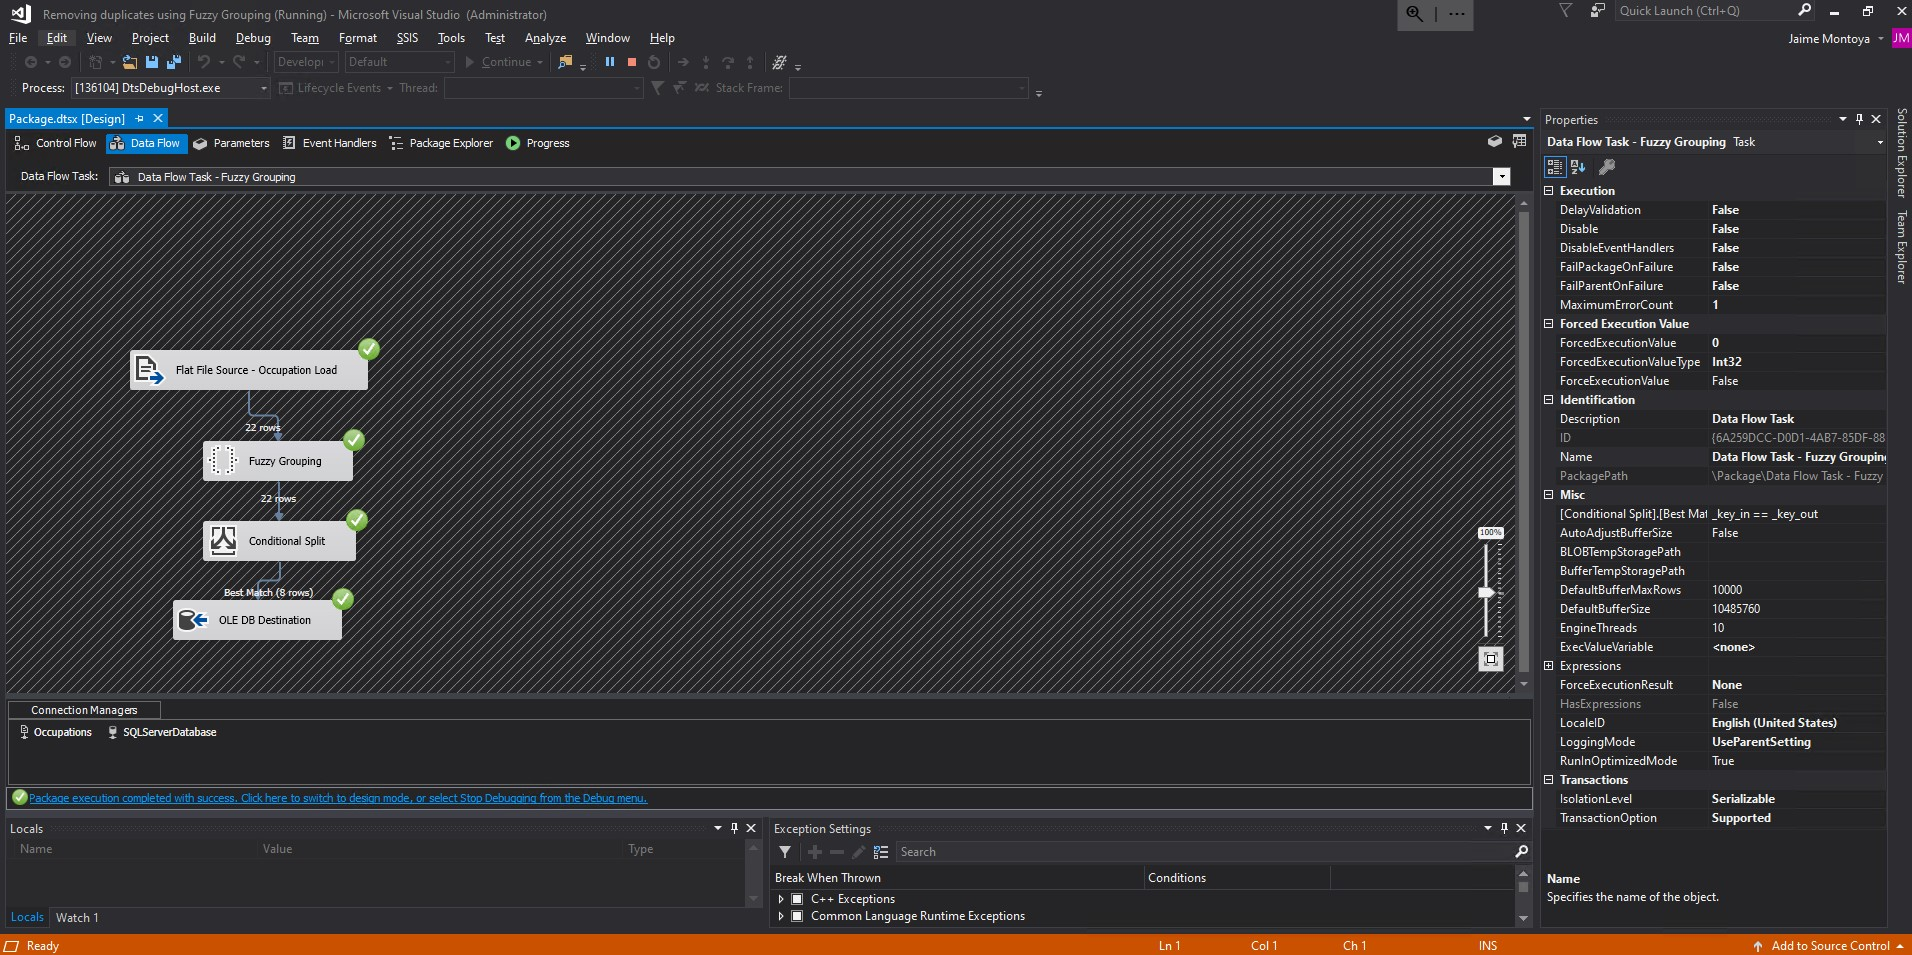
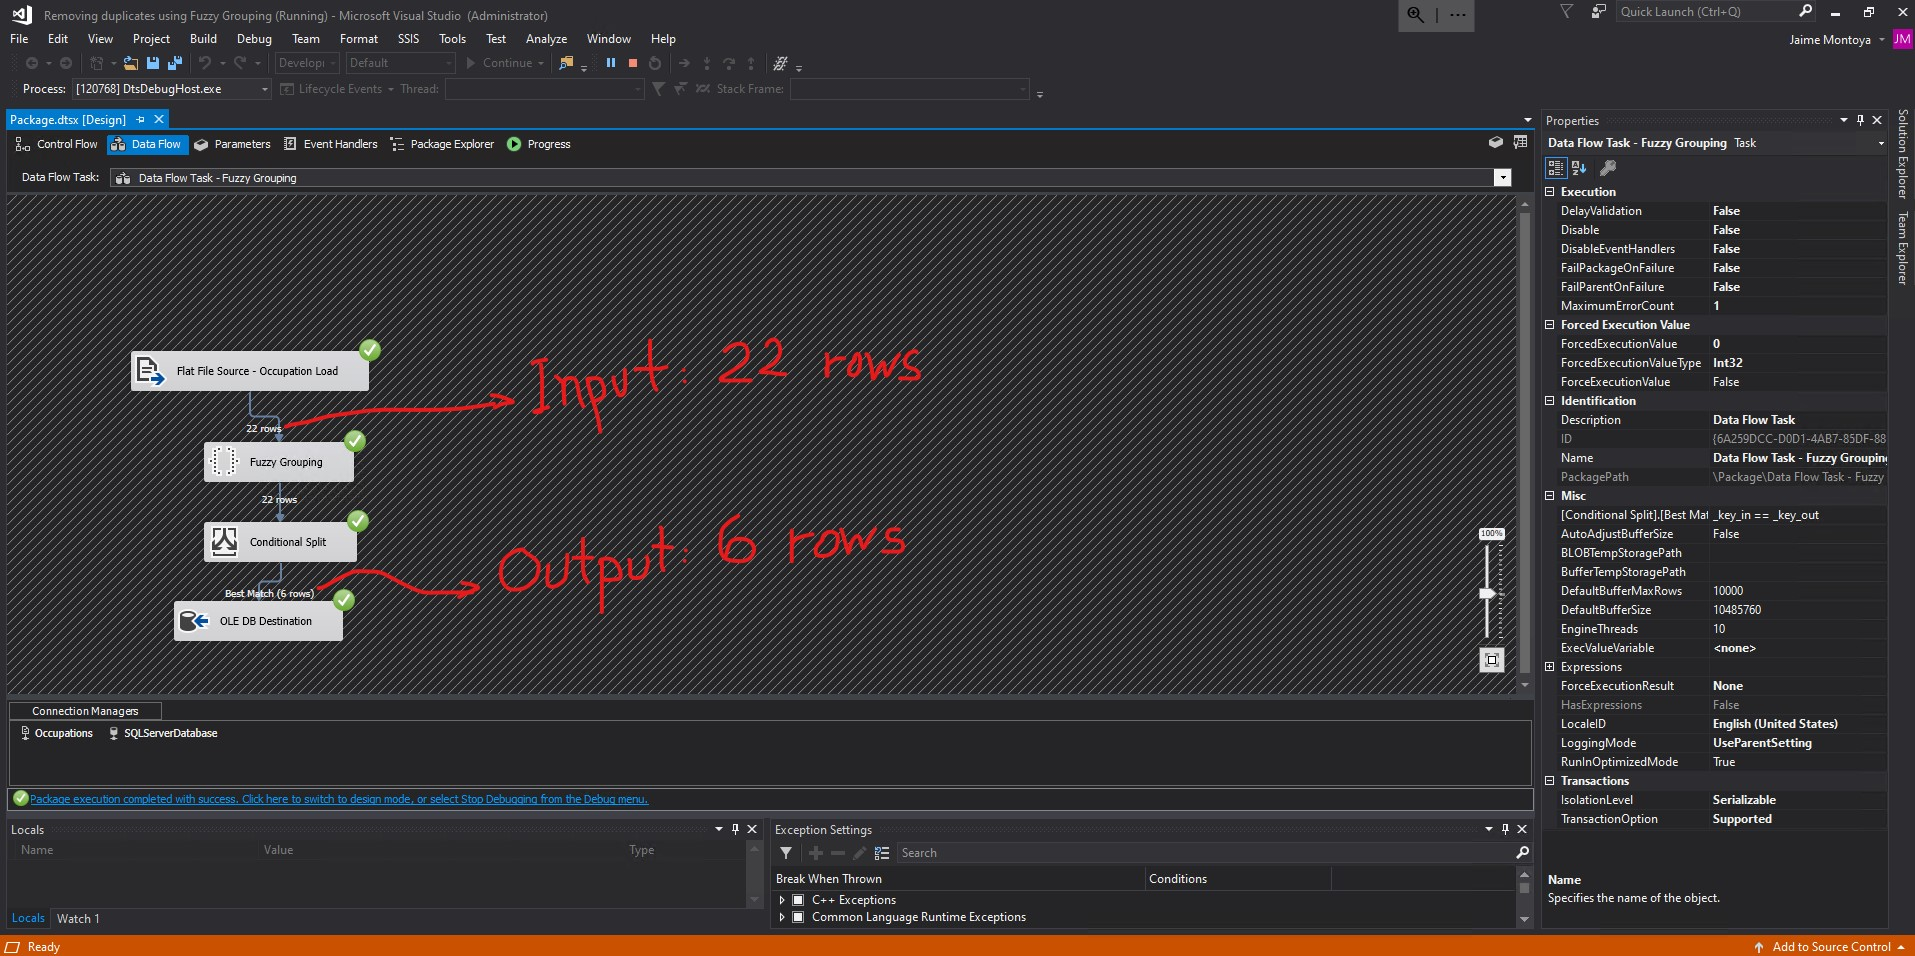
Show final output of successful execution.

diff --git a/blog/2023/12/12/05/59/book-info-20231212-0559.php b/blog/2023/12/12/05/59/book-info-20231212-0559.php
@@ -5,5 +5,5 @@
   [OccupationID] [smallint] IDENTITY(1,1) NOT NULL,
   [OccupationLabel] [varchar](50) NOT NULL
 )</pre>
-           <div><img src=\"/blog/2023/12/12/05/59/img/createTableToHoldFinalOutput.jpg\" alt=\"Create table to hold final output\" width=\"1796\" height=\"839\"></div><p><span class=\"cod\">Name of the table or the view</span> did not seem to have been populated properly. What I saw was <span class=\"cod\">[Occupation_FuzzyGrouping] (</span>. That opening parenthesis did not look correct as part of a table or view name. I clicked <span class=\"cod\">Mappings</span>. Notice the warning: <span class=\"cod\">Map the columns on the Mappings page.</span></p><div><img src=\"/blog/2023/12/12/05/59/img/tableOrViewCreatedForOLEDBDestination.jpg\" alt=\"Table or view created for OLE DB Destination\" width=\"1334\" height=\"840\"></div><p>I was not allowed to go to the <span class=\"cod\">Mappings</span> section. The following warning appeared.</p><p>Warning when trying to navigate to <span class=\"cod\">Mappings</span> (part 1 of 2):</p><div><img src=\"/blog/2023/12/12/05/59/img/warningWhenTryingToNavigateToMappingsPart1Of2.jpg\" alt=\"Table or view created for OLE DB Destination\" width=\"1335\" height=\"890\"></div><p>Warning when trying to navigate to <span class=\"cod\">Mappings</span> (part 2 of 2):</p><div><img src=\"/blog/2023/12/12/05/59/img/warningWhenTryingToNavigateToMappingsPart2Of2.jpg\" alt=\"Table or view created for OLE DB Destination\" width=\"1335\" height=\"890\"></div><p>I went to the database and discovered that the table had been created successfully:</p><div><img src=\"/blog/2023/12/12/05/59/img/tableCreatedSuccessfully.jpg\" alt=\"Table created successfully\" width=\"269\" height=\"72\"></div><p>In the value for <span class=\"cod\">Name of the table or the view</span>, I replaced <span class=\"cod\">[Occupation_FuzzyGrouping] (</span> with <span class=\"cod\">[dbo].[Occupation_FuzzyGrouping]</span>. The warning changed back to <span class=\"cod\">Map the columns on the Mappings page.</span> Then I clicked <span class=\"cod\">Mappings</span>:</p><div><img src=\"/blog/2023/12/12/05/59/img/mappingsWorkingProperly.jpg\" alt=\"Mappings working properly\" width=\"1335\" height=\"840\"></div><p>The mapping was wrong because it was linking <span class=\"cod\">OccupationLabel</span> from <span class=\"cod\">Available Input Columns</span> to <span class=\"cod\">OccupationLabel</span> from <span class=\"cod\">Available Destination Columns</span>:</p><div><img src=\"/blog/2023/12/12/05/59/img/wrongMapping.jpg\" alt=\"Wrong mapping\" width=\"1335\" height=\"793\"></div><p>I fixed the mappings by linking <span class=\"cod\">OccupationLabel_clean</span> from <span class=\"cod\">Available Input Columns</span> to <span class=\"cod\">OccupationLabel</span> from <span class=\"cod\">Available Destination Columns</span>. Then I clicked <span class=\"cod\">OK</span>:</p><div><img src=\"/blog/2023/12/12/05/59/img/fixMapping.jpg\" alt=\"Fix mapping\" width=\"1335\" height=\"794\"></div><p>The explanation of why the mapping was wrong and it had to be fixed, was because the <span class=\"cod\">OccupationLabel Output Alias</span> returns several rows, while <span class=\"cod\">OccupationLabel_clean Group Output Alias</span> returns the grouping of all those rows. For example, <span class=\"cod\">OccupationLabel Output Alias</span> would return <span class=\"cod\">CUST SERVICE REP.</span>, <span class=\"cod\">CUSTOMER SERVICE REPRESENTATIVE</span>, <span class=\"cod\">CUSTOMER SERVICE REP</span>, <span class=\"cod\">CUTSOMER SERIVCE REPRESENTATIVE</span>, and <span class=\"cod\">CUSTOMER SERIVCE REP</span>; while <span class=\"cod\">OccupationLabel_clean Group Output Alias</span> would only return <span class=\"cod\">CUSTOMER SERVICE REPRESENTATIVE</span>:</p><div><img src=\"/blog/2023/12/12/05/59/img/explainDifferenceBetweenOutputAliasAndGroupOutputAlias.jpg\" alt=\"Explain difference between Output Alias and Group Output Alias\" width=\"1297\" height=\"794\"></div><p>I right clicked on the package and then clicked <span class=\"cod\">Execute Package</span>:</p><div><img src=\"/blog/2023/12/12/05/59/img/executePackage.jpg\" alt=\"Execute Package\" width=\"1911\" height=\"669\"></div><p>The execution was successful, returning 8 rows from the original input of 22 rows:</p><div><img src=\"/blog/2023/12/12/05/59/img/successfulExecution.jpg\" alt=\"Successful execution\" width=\"1912\" height=\"955\"></div><div>Published: 5:59 AM GMT · Dec 12, 2023</div>\n";
+           <div><img src=\"/blog/2023/12/12/05/59/img/createTableToHoldFinalOutput.jpg\" alt=\"Create table to hold final output\" width=\"1796\" height=\"839\"></div><p><span class=\"cod\">Name of the table or the view</span> did not seem to have been populated properly. What I saw was <span class=\"cod\">[Occupation_FuzzyGrouping] (</span>. That opening parenthesis did not look correct as part of a table or view name. I clicked <span class=\"cod\">Mappings</span>. Notice the warning: <span class=\"cod\">Map the columns on the Mappings page.</span></p><div><img src=\"/blog/2023/12/12/05/59/img/tableOrViewCreatedForOLEDBDestination.jpg\" alt=\"Table or view created for OLE DB Destination\" width=\"1334\" height=\"840\"></div><p>I was not allowed to go to the <span class=\"cod\">Mappings</span> section. The following warning appeared.</p><p>Warning when trying to navigate to <span class=\"cod\">Mappings</span> (part 1 of 2):</p><div><img src=\"/blog/2023/12/12/05/59/img/warningWhenTryingToNavigateToMappingsPart1Of2.jpg\" alt=\"Table or view created for OLE DB Destination\" width=\"1335\" height=\"890\"></div><p>Warning when trying to navigate to <span class=\"cod\">Mappings</span> (part 2 of 2):</p><div><img src=\"/blog/2023/12/12/05/59/img/warningWhenTryingToNavigateToMappingsPart2Of2.jpg\" alt=\"Table or view created for OLE DB Destination\" width=\"1335\" height=\"890\"></div><p>I went to the database and discovered that the table had been created successfully:</p><div><img src=\"/blog/2023/12/12/05/59/img/tableCreatedSuccessfully.jpg\" alt=\"Table created successfully\" width=\"269\" height=\"72\"></div><p>In the value for <span class=\"cod\">Name of the table or the view</span>, I replaced <span class=\"cod\">[Occupation_FuzzyGrouping] (</span> with <span class=\"cod\">[dbo].[Occupation_FuzzyGrouping]</span>. The warning changed back to <span class=\"cod\">Map the columns on the Mappings page.</span> Then I clicked <span class=\"cod\">Mappings</span>:</p><div><img src=\"/blog/2023/12/12/05/59/img/mappingsWorkingProperly.jpg\" alt=\"Mappings working properly\" width=\"1335\" height=\"840\"></div><p>The mapping was wrong because it was linking <span class=\"cod\">OccupationLabel</span> from <span class=\"cod\">Available Input Columns</span> to <span class=\"cod\">OccupationLabel</span> from <span class=\"cod\">Available Destination Columns</span>:</p><div><img src=\"/blog/2023/12/12/05/59/img/wrongMapping.jpg\" alt=\"Wrong mapping\" width=\"1335\" height=\"793\"></div><p>I fixed the mappings by linking <span class=\"cod\">OccupationLabel_clean</span> from <span class=\"cod\">Available Input Columns</span> to <span class=\"cod\">OccupationLabel</span> from <span class=\"cod\">Available Destination Columns</span>. Then I clicked <span class=\"cod\">OK</span>:</p><div><img src=\"/blog/2023/12/12/05/59/img/fixMapping.jpg\" alt=\"Fix mapping\" width=\"1335\" height=\"794\"></div><p>The explanation of why the mapping was wrong and it had to be fixed, was because the <span class=\"cod\">OccupationLabel Output Alias</span> returns several rows, while <span class=\"cod\">OccupationLabel_clean Group Output Alias</span> returns the grouping of all those rows. For example, <span class=\"cod\">OccupationLabel Output Alias</span> would return <span class=\"cod\">CUST SERVICE REP.</span>, <span class=\"cod\">CUSTOMER SERVICE REPRESENTATIVE</span>, <span class=\"cod\">CUSTOMER SERVICE REP</span>, <span class=\"cod\">CUTSOMER SERIVCE REPRESENTATIVE</span>, and <span class=\"cod\">CUSTOMER SERIVCE REP</span>; while <span class=\"cod\">OccupationLabel_clean Group Output Alias</span> would only return <span class=\"cod\">CUSTOMER SERVICE REPRESENTATIVE</span>:</p><div><img src=\"/blog/2023/12/12/05/59/img/explainDifferenceBetweenOutputAliasAndGroupOutputAlias.jpg\" alt=\"Explain difference between Output Alias and Group Output Alias\" width=\"1297\" height=\"794\"></div><p>I right clicked on the package and then clicked <span class=\"cod\">Execute Package</span>:</p><div><img src=\"/blog/2023/12/12/05/59/img/executePackage.jpg\" alt=\"Execute Package\" width=\"1911\" height=\"669\"></div><p>The execution was successful, returning 6 rows from the original input of 22 rows:</p><div><img src=\"/blog/2023/12/12/05/59/img/successfulExecution.jpg\" alt=\"Successful execution\" width=\"1915\" height=\"956\"></div><div>Published: 5:59 AM GMT · Dec 12, 2023</div>\n";
 ?>
